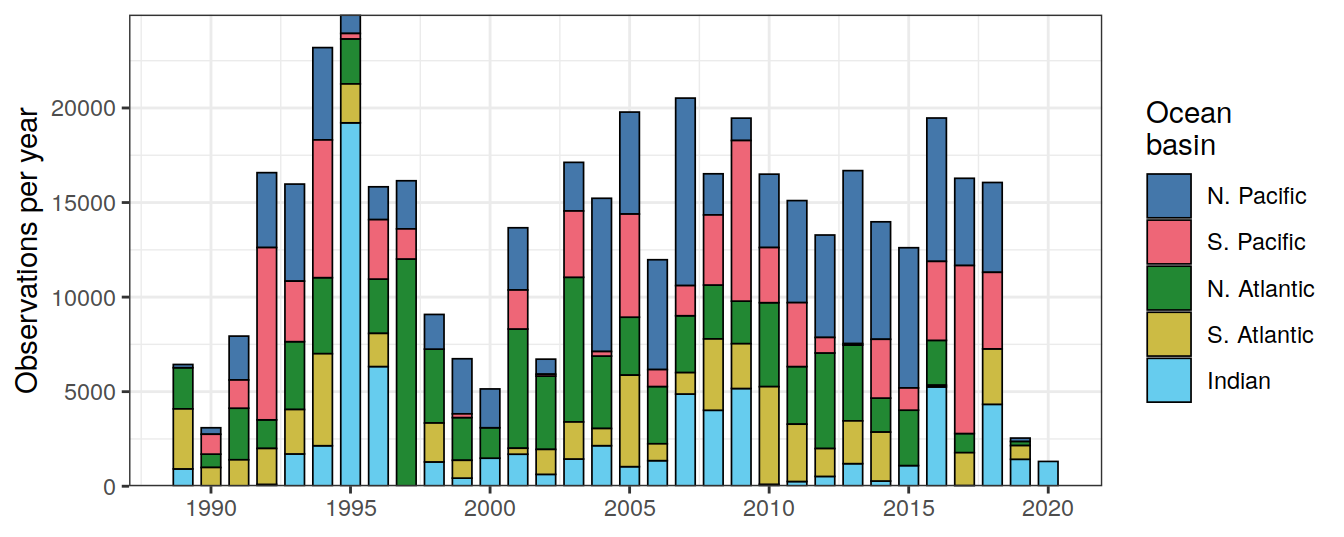
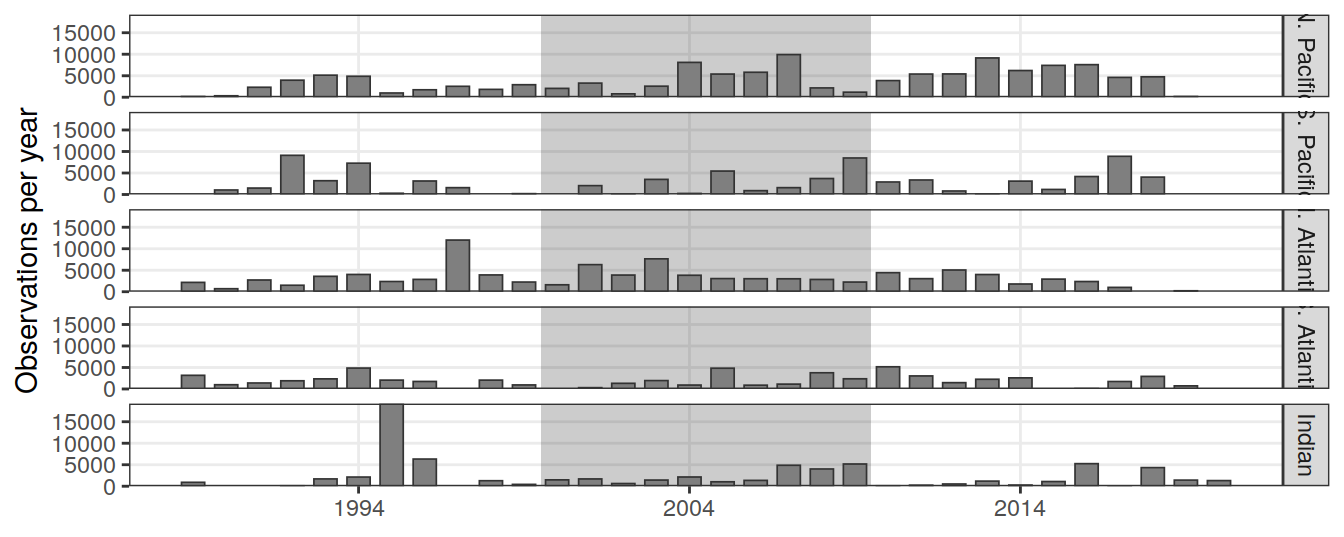
Build site.

diff --git a/docs/basics.html b/docs/basics.html
@@ -664,7 +664,7 @@ div.tocify {
 
 <h1 class="title toc-ignore">Basics</h1>
 <h4 class="author">Jens Daniel Müller</h4>
-<h4 class="date">29 July, 2022</h4>
+<h4 class="date">29 August, 2022</h4>
 
 </div>
 
@@ -689,7 +689,7 @@ div.tocify {
 <div class="tab-content">
 <div id="summary" class="tab-pane fade in active">
 <p>
-<strong>Last updated:</strong> 2022-07-29
+<strong>Last updated:</strong> 2022-08-29
 </p>
 <p>
 <strong>Checks:</strong> <span class="glyphicon glyphicon-ok text-success" aria-hidden="true"></span> 7 <span class="glyphicon glyphicon-exclamation-sign text-danger" aria-hidden="true"></span> 0
@@ -780,16 +780,16 @@ This reproducible <a href="https://rmarkdown.rstudio.com">R Markdown</a> analysi
 <div class="panel panel-default">
 <div class="panel-heading">
 <p class="panel-title">
-<a data-toggle="collapse" data-parent="#workflowr-checks" href="#strongRepositoryversionstrongahrefhttpsgithubcomjensdanielmuelleremlrobsanalysistreef04d8ed5bf6d53481c1331fbe3e1803b25778476targetblankf04d8eda"> <span class="glyphicon glyphicon-ok text-success" aria-hidden="true"></span> <strong>Repository version:</strong> <a href="https://github.com/jens-daniel-mueller/emlr_obs_analysis/tree/f04d8ed5bf6d53481c1331fbe3e1803b25778476" target="_blank">f04d8ed</a> </a>
+<a data-toggle="collapse" data-parent="#workflowr-checks" href="#strongRepositoryversionstrongahrefhttpsgithubcomjensdanielmuelleremlrobsanalysistree0c7719a9c3043335184875e69002d1ebc93ba66ctargetblank0c7719aa"> <span class="glyphicon glyphicon-ok text-success" aria-hidden="true"></span> <strong>Repository version:</strong> <a href="https://github.com/jens-daniel-mueller/emlr_obs_analysis/tree/0c7719a9c3043335184875e69002d1ebc93ba66c" target="_blank">0c7719a</a> </a>
 </p>
 </div>
[2 lines of base64/hex data omitted]
 <div class="panel-body">
 <p>
 Great! You are using Git for version control. Tracking code development and connecting the code version to the results is critical for reproducibility.
 </p>
 <p>
-The results in this page were generated with repository version <a href="https://github.com/jens-daniel-mueller/emlr_obs_analysis/tree/f04d8ed5bf6d53481c1331fbe3e1803b25778476" target="_blank">f04d8ed</a>. See the <em>Past versions</em> tab to see a history of the changes made to the R Markdown and HTML files.
+The results in this page were generated with repository version <a href="https://github.com/jens-daniel-mueller/emlr_obs_analysis/tree/0c7719a9c3043335184875e69002d1ebc93ba66c" target="_blank">0c7719a</a>. See the <em>Past versions</em> tab to see a history of the changes made to the R Markdown and HTML files.
 </p>
 <p>
 Note that you need to be careful to ensure that all relevant files for the analysis have been committed to Git prior to generating the results (you can use <code>wflow_publish</code> or <code>wflow_git_commit</code>). workflowr only checks the R Markdown file, but you know if there are other scripts or data files that it depends on. Below is the status of the Git repository when the results were generated:
@@ -803,11 +803,11 @@ Ignored files:
     Ignored:    output/publication/
 
 Untracked files:
-    Untracked:  figure/
+    Untracked:  code/visualization_equal_earth.R
+    Untracked:  code/visualization_equal_earth_cleaned.R
+    Untracked:  code/visualization_equal_earth_cleaned_jdm.R
 
 Unstaged changes:
-    Modified:   analysis/_site.yml
-    Modified:   analysis/child/budget_analysis_plot_data.Rmd
     Modified:   code/Workflowr_project_managment.R
 
 </code></pre>
@@ -847,6 +847,40 @@ Message
 </tr>
 </thead>
 <tbody>
+<tr>
+<td>
+Rmd
+</td>
+<td>
+<a href="https://github.com/jens-daniel-mueller/emlr_obs_analysis/blob/0c7719a9c3043335184875e69002d1ebc93ba66c/analysis/basics.Rmd" target="_blank">0c7719a</a>
+</td>
+<td>
+jens-daniel-mueller
+</td>
+<td>
+2022-08-29
+</td>
+<td>
+data coverage time series updated
+</td>
+</tr>
+<tr>
+<td>
+html
+</td>
+<td>
+<a href="https://rawcdn.githack.com/jens-daniel-mueller/emlr_obs_analysis/e99640ead91db2eb6dfbf57cfde7fb6248ffc4ca/docs/basics.html" target="_blank">e99640e</a>
+</td>
+<td>
+jens-daniel-mueller
+</td>
+<td>
+2022-07-29
+</td>
+<td>
+Build site.
+</td>
+</tr>
 <tr>
 <td>
 html
@@ -2039,13 +2073,22 @@ p_time_histo_all
 p_time_histo_basin &lt;-
   time_histo %&gt;%
   ggplot() +
-  geom_col(aes(year, n, fill = basin), col = &quot;black&quot;, size = 0.3, width = 0.7) +
-  # scale_fill_brewer(palette = &quot;Paired&quot;, name = &quot;Ocean\nbasin&quot;) +
-  scale_fill_bright(name = &quot;Ocean\nbasin&quot;) +
-  scale_x_continuous(breaks = seq(1900, 2100, 5)) +
-  scale_y_continuous(limits = c(0, NA), expand = c(0,0)) +
+  annotate(&quot;rect&quot;, xmin = 1999.5, xmax=2009.5,
+                ymin = 0, ymax = Inf,
+            fill = &quot;black&quot;, alpha = 0.2, col=&quot;transparent&quot;) +
+  geom_col(
+    aes(year, n),
+    col = &quot;grey20&quot;,
+    fill = &quot;grey50&quot;,
+    size = 0.3,
+    width = 0.7
+  ) +
+  scale_x_continuous(breaks = seq(1994, 2014, 10)) +
+  scale_y_continuous(limits = c(0, NA), expand = c(0, 0)) +
   labs(y = &quot;Observations per year&quot;) +
-  theme(axis.title.x = element_blank())
+  facet_grid(basin~.)+
+  theme(axis.title.x = element_blank(),
+        panel.grid.minor = element_blank())
 
 p_time_histo_basin</code></pre>
 <p><img src="figure/basics.Rmd/time_series_per_basin-1.png" width="672" style="display: block; margin: auto;" /></p>
@@ -2133,8 +2176,8 @@ jens-daniel-mueller
 <pre class="r"><code>ggsave(plot = p_time_histo_basin,
        path = here::here(&quot;output/publication&quot;),
        filename = &quot;FigS_observations_coverage_time_series.png&quot;,
-       height = 4,
-       width = 10)
+       height = 6,
+       width = 7)
 
 rm(p_time_histo_basin)</code></pre>
 </div>

diff --git a/docs/index.html b/docs/index.html
@@ -698,16 +698,16 @@ This reproducible <a href="https://rmarkdown.rstudio.com">R Markdown</a> analysi
 <div class="panel panel-default">
 <div class="panel-heading">
 <p class="panel-title">
-<a data-toggle="collapse" data-parent="#workflowr-checks" href="#strongRepositoryversionstrongahrefhttpsgithubcomjensdanielmuelleremlrobsanalysistree392f3d758324ba63c9f909f229aa0c62e49ffdb2targetblank392f3d7a"> <span class="glyphicon glyphicon-ok text-success" aria-hidden="true"></span> <strong>Repository version:</strong> <a href="https://github.com/jens-daniel-mueller/emlr_obs_analysis/tree/392f3d758324ba63c9f909f229aa0c62e49ffdb2" target="_blank">392f3d7</a> </a>
+<a data-toggle="collapse" data-parent="#workflowr-checks" href="#strongRepositoryversionstrongahrefhttpsgithubcomjensdanielmuelleremlrobsanalysistree0c7719a9c3043335184875e69002d1ebc93ba66ctargetblank0c7719aa"> <span class="glyphicon glyphicon-ok text-success" aria-hidden="true"></span> <strong>Repository version:</strong> <a href="https://github.com/jens-daniel-mueller/emlr_obs_analysis/tree/0c7719a9c3043335184875e69002d1ebc93ba66c" target="_blank">0c7719a</a> </a>
 </p>
 </div>
[2 lines of base64/hex data omitted]
 <div class="panel-body">
 <p>
 Great! You are using Git for version control. Tracking code development and connecting the code version to the results is critical for reproducibility.
 </p>
 <p>
-The results in this page were generated with repository version <a href="https://github.com/jens-daniel-mueller/emlr_obs_analysis/tree/392f3d758324ba63c9f909f229aa0c62e49ffdb2" target="_blank">392f3d7</a>. See the <em>Past versions</em> tab to see a history of the changes made to the R Markdown and HTML files.
+The results in this page were generated with repository version <a href="https://github.com/jens-daniel-mueller/emlr_obs_analysis/tree/0c7719a9c3043335184875e69002d1ebc93ba66c" target="_blank">0c7719a</a>. See the <em>Past versions</em> tab to see a history of the changes made to the R Markdown and HTML files.
 </p>
 <p>
 Note that you need to be careful to ensure that all relevant files for the analysis have been committed to Git prior to generating the results (you can use <code>wflow_publish</code> or <code>wflow_git_commit</code>). workflowr only checks the R Markdown file, but you know if there are other scripts or data files that it depends on. Below is the status of the Git repository when the results were generated:
@@ -765,6 +765,23 @@ Message
 </tr>
 </thead>
 <tbody>
+<tr>
+<td>
+html
+</td>
+<td>
+<a href="https://rawcdn.githack.com/jens-daniel-mueller/emlr_obs_analysis/4eb9ed26d11395b83a7d7fd25e9e6e58da8d8389/docs/index.html" target="_blank">4eb9ed2</a>
+</td>
+<td>
+jens-daniel-mueller
+</td>
+<td>
+2022-08-29
+</td>
+<td>
+Build site.
+</td>
+</tr>
 <tr>
 <td>
 html
